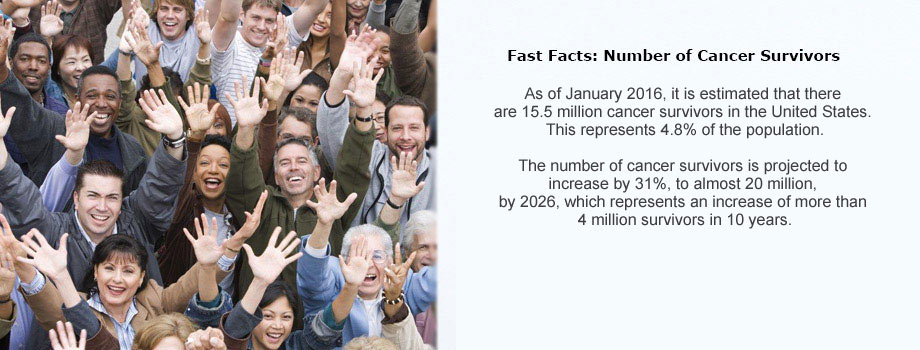
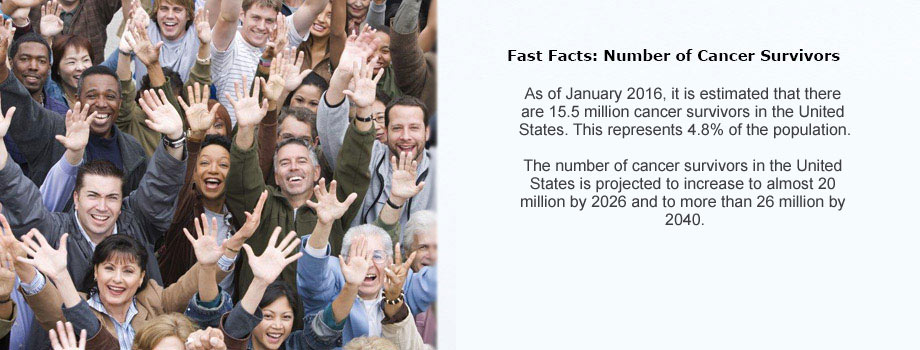
Merged revision(s) 631-632 from branches/ICF
Former-commit-id: f38e8b20cf81256a3431ceb1e9fd5c8d97cf1430

Changed region(s): [[0.5478, 0.4571, 0.9435, 0.6571], [0.5174, 0.2857, 0.9435, 0.4]]

diff --git a/ocs/statistics/statistics.html b/ocs/statistics/statistics.html
@@ -175,13 +175,14 @@ Opportunities at NCI</a></li>
     </div>
     </div>-->
 		</li>
-      <li>The number of cancer survivors is projected to increase by 31%, to almost 20 million, by 2026, which represents an increase of more than 4 million survivors in 10 years.<sup>1, 2</sup> <!--<a href="#graphA" data-toggle="lightbox">View graph A</a>
+      <li>The number of cancer survivors is projected to increase by 31%, to almost 20 million, by 2026, which represents an increase of more than 4 million survivors in 10 years.<sup>1, 2</sup> </li>
+      <li>The number of cancer survivors is projected to grow to 26.1 million by 2040, an increase of almost 11 million from 2016.<sup>3</sup></li>
+      <!--<a href="#graphA" data-toggle="lightbox">View graph A</a>
                      			<div id="modal" class="lightbox hide fade" tabindex="-1" role="dialog" aria-hidden="true">
                       				<div class="modal-body">
                       					<img src="../Images/graphs/graphic-2014-prevalence.png" alt="Estimated number of cancer survivors in the US" />
                        				</div>
                         		</div>-->
-		</li>
     </ul>
     <p><strong>Number or Percentage of Cancer Survivors, by Time Since Diagnosis    </strong></p>
     <ul>
@@ -207,7 +208,8 @@ Opportunities at NCI</a></li>
     </ul>
 <p><strong>More Details about Cancer Survivors    </strong></p>
     <ul>
-      <li>Sixty-one percent of survivors are currently 65 years of age or older.<sup>1, 2</sup>  <!--<a href="#graphD" data-toggle="lightbox">View graph D</a>
+      <li>Sixty-one percent of survivors are currently 65 years of age or older.</li>
+      <li>It is estimated that by 2040, 73% of cancer survivors in the United States will be 65 years or older.<sup>3</sup>  <!--<a href="#graphD" data-toggle="lightbox">View graph D</a>
       
         <div id="graphD" class="lightbox hide fade" tabindex="-1" role="dialog" aria-hidden="true">
      <div class='lightbox-header'><button type="button" class="close" data-dismiss="lightbox" aria-hidden="true">&times;</button>
@@ -215,15 +217,14 @@ Opportunities at NCI</a></li>
     <div class='lightbox-content'>
     <img src="../Images/graphs/graph-2014-age.png" alt="Estimated number of persons alive in the United States who were diagnosed with cancer, by current age" />
     </div>
-    </div>-->
-      </li>
-      
+    </div>-->  </li>    
       <li>Among today's survivors, the most common cancer sites represented include female breast (23%), prostate (21%), colorectal (9%),  gynecologic (8%) and melanoma (8%).<sup>1, 2</sup></li>
     </ul>
     <p>For additional cancer-related statistics, please visit <a href="http://seer.cancer.gov/">NCI's Surveillance, Epidemiology, and End Results (SEER) Program</a>. </p>
     <p>&nbsp;</p>
     <p><sup>1</sup> American Cancer Society<em>. Cancer Treatment &amp; Survivorship Facts &amp; Figures  2016-2017</em>. Atlanta: American Cancer Society; 2016.</p>
     <p><sup>2</sup> Miller,  K. D., Siegel, R. L., Lin, C. C., Mariotto, A. B., Kramer, J. L., Rowland, J.  H., Stein, K. D., Alteri, R. and Jemal, A. (2016), Cancer treatment and  survivorship statistics, 2016. CA: A Cancer Journal for Clinicians.</p>
+    <p><sup>3</sup> Bluethmann SM,  Mariotto AB, Rowland, JH. Anticipating the ''Silver Tsunami'': Prevalence  Trajectories and Comorbidity Burden among Older Cancer Survivors in the United  States. Cancer Epidemiol Biomarkers Prev. 2016;25:1029-1036. </p>
 </div>
                 <!--/span-->
                           <!-- InstanceEndEditable -->
@@ -281,7 +282,7 @@ Opportunities at NCI</a></p>
           </div>
            </div>
        <div class="last-updated">
-       <p class="center"><strong>Last Updated: <!-- InstanceBeginEditable name="Last Updated" -->July 6, 2016<!-- InstanceEndEditable --></strong></p>
+       <p class="center"><strong>Last Updated: <!-- InstanceBeginEditable name="Last Updated" -->July 7, 2016<!-- InstanceEndEditable --></strong></p>
        <a href="http://www.cancer.gov/contact" class="help-image"><img class="footer-help" src="/images/footer-help-logo.png" alt="help-logo" /></a><p class="can-numb"><strong>1-800-4-CANCER <br /> (1-800-422-6237)</strong></p>
        </div>
        </div><!--/row-->

diff --git a/ocs/index.html b/ocs/index.html
@@ -178,7 +178,7 @@ Opportunities at NCI</a></li>
           </div>
         </div>
         <div class="item">
-          <img class="splash" src="Images/carousel/banner-fastfacts2.jpg" alt="Over the next decade, the number of people who have lived 5 years or more after their cancer diagnosis is projected to increase approximately 35%, to 14 million. In 2016, 68% of survivors have survived 5 years or more after diagnosis; 47% have survived 10 years or more; and 20% have survived 20 years or more.">
+          <img class="splash" src="Images/carousel/banner-fastfacts2.jpg" alt="As of January 2016, it is estimated that there are 15.5 million cancer survivors in the United States. This represents 4.8% of the population. The number of cancer survivors is projected to grow to 26.1 million by 2040, an increase of almost 11 million from 2016.">
           <div class="container">
             <div class="carousel-caption slide2">
                   <a class="btn btn-info slide2a" href="/ocs/statistics/statistics.html">Learn More</a>
@@ -186,7 +186,8 @@ Opportunities at NCI</a></li>
           </div>
         </div>
         <div class="item">
-          <img class="splash" src="Images/carousel/banner-fastfacts1.jpg" alt="As of January 2016, it is estimated that there are 15.5 million cancer survivors in the United States. This represents 4.8% of the population. The number of cancer survivors is projected to increase by 31%, to almost 20 million, by 2026, which represents an increase of more than 4 million survivors in 10 years.">
+          <img class="splash" src="Images/carousel/banner-fastfacts1.jpg" alt="Over the next decade, the number of people who have lived 5 years or more after their cancer diagnosis is projected to increase approximately 35%, to 14 million. In 2016, 68% of survivors have survived 
+5 years or more after diagnosis; 44% have survived 10 years or more; and 20% have survived 20 years or more.">
           <div class="container">
             <div class="carousel-caption slide3">
                   <a class="btn btn-info slide3a" href="/ocs/statistics/statistics.html">Learn More</a>
@@ -194,7 +195,7 @@ Opportunities at NCI</a></li>
           </div>
         </div>
                 <div class="item">
-          <img class="splash" src="Images/carousel/banner-fastfacts3.jpg" alt="Sixty-one percent of survivors are currently 65 years of age or older. Among today's survivors, the most common cancer sites represented include female breast (23%), prostate (21%), colorectal (9%), gynecologic (8%) and melanoma (8%).">
+          <img class="splash" src="Images/carousel/banner-fastfacts3.jpg" alt="Sixty-one percent of survivors are currently 65 years of age or older. It is estimated that by 2040, 73% of cancer survivors in the United States will be 65 years or older. Among today's survivors, the most common cancer sites represented include female breast (23%), prostate (21%), colorectal (9%), gynecologic (8%) and melanoma (8%).">
           <div class="container">
             <div class="carousel-caption slide4">
                   <a class="btn btn-info slide4a" href="/ocs/statistics/statistics.html">Learn More</a>
@@ -320,7 +321,7 @@ Opportunities at NCI</a></p>
           </div>
            </div>
        <div class="last-updated">
-       <p class="center"><strong>Last Updated: July 6, 2016</strong></p>
+       <p class="center"><strong>Last Updated: July 7, 2016</strong></p>
        <a href="http://www.cancer.gov/contact" class="help-image"><img class="footer-help" src="/images/footer-help-logo.png" alt="help-logo" /></a><p class="can-numb"><strong>1-800-4-CANCER <br /> (1-800-422-6237)</strong></p>
        </div>
        </div><!--/row-->

diff --git a/index.html b/index.html
@@ -302,19 +302,20 @@ j=d.createElement(s),dl=l!='dataLayer'?'&l='+l:'';j.async=true;j.src=
                   <div class="area-header bottom-border">Featured Infographic</div>
                   <div class="row-fluid">
                   <div class="span7">
-                  <div id="demoLightbox22" class="lightbox hide fade" tabindex="-1" role="dialog" aria-hidden="true">
+                  <div id="demoLightbox23" class="lightbox hide fade" tabindex="-1" role="dialog" aria-hidden="true">
      <div class='lightbox-header'><button type="button" class="close" data-dismiss="lightbox" aria-hidden="true">&times;</button>
 </div>
     <div class='lightbox-content'>
-    <img src="images/seer-1975-2013.png" alt="CSR Figure 1.19: Person and Average Years of Life Lost by Cancer Site">
-    <div class="lightbox-caption"><p>Source: <a href="http://seer.cancer.gov/csr/1975_2013/">SEER Cancer Statistics Review (CSR) 1975-2013</a></p></div>
+    <img src="images/estimated-cancer-prevalence-by-age-1975-2040.jpg" alt="Estimated Cancer Prevalence by Age in the US Population from 1975 to 2040">
+    <div class="lightbox-caption"><p>Source: Bluethmann SM, Mariotto AB, Rowland, JH. Anticipating the ''Silver Tsunami'': Prevalence Trajectories and Comorbidity Burden among Older Cancer Survivors in the United States. Cancer Epidemiol Biomarkers Prev. 2016;25:1029-1036.</p></div>
     </div>
     </div>
-                      <a data-toggle="lightbox" href="#demoLightbox22"><img src="images/seer-1975-2013.png" alt="CSR Figure 1.19: Person and Average Years of Life Lost by Cancer Site" width="250" height="186"></a>
-                    <p><a href="infographics.html" class="document">View all Previous Infographics</a></p>
+                      <a data-toggle="lightbox" href="#demoLightbox23"><img src="images/estimated-cancer-prevalence-by-age-1975-2040.jpg" alt="Estimated Cancer Prevalence by Age in the US Population from 1975 to 2040" width="200" height="148"></a>
+                    <p><br>
+<a href="infographics.html" class="document">View all Previous Infographics</a></p>
                   </div>
             <div class="span5">
-            <p><a href="http://seer.cancer.gov/csr/1975_2013/">SEER Cancer Statistics Review (CSR) 1975-2013</a></p>
+            <p><a data-toggle="lightbox" href="#demoLightbox23">Estimated Cancer Prevalence by Age in the US Population from 1975 to 2040</a></p>
 </div>
             </div>
             
@@ -452,7 +453,7 @@ j=d.createElement(s),dl=l!='dataLayer'?'&l='+l:'';j.async=true;j.src=
           </div>
            </div>
        <div class="last-updated">
-       <p class="center"><strong>Last Updated: June 7, 2016</strong></p>
+       <p class="center"><strong>Last Updated: July 7, 2016</strong></p>
        <a href="http://www.cancer.gov/contact" class="help-image"><img class="footer-help" src="/images/footer-help-logo.png" alt="help-logo" /></a><p class="can-numb"><strong>1-800-4-CANCER <br /> (1-800-422-6237)</strong></p>
                   </div>
        </div><!--/row-->

diff --git a/infographics.html b/infographics.html
@@ -182,6 +182,24 @@ j=d.createElement(s),dl=l!='dataLayer'?'&l='+l:'';j.async=true;j.src=
                 <div class="span12 listimage">
                   <h1>Featured Infographics</h1>
                   <div class="row-fluid">
+                  
+                  <div class="row-fluid">
+                  <div class="span12">
+                  <div id="demoLightbox23" class="lightbox hide fade" tabindex="-1" role="dialog" aria-hidden="true">
+     <div class='lightbox-header'><button type="button" class="close" data-dismiss="lightbox" aria-hidden="true">&times;</button>
+</div>
+    <div class='lightbox-content'>
+    <img src="images/estimated-cancer-prevalence-by-age-1975-2040.jpg" alt="Estimated Cancer Prevalence by Age in the US Population from 1975 to 2040">
+    <div class="lightbox-caption"><p>Source: Bluethmann SM, Mariotto AB, Rowland, JH. Anticipating the ''Silver Tsunami'': Prevalence Trajectories and Comorbidity Burden among Older Cancer Survivors in the United States. Cancer Epidemiol Biomarkers Prev. 2016;25:1029-1036.</p></div>
+    </div>
+    </div>
+                      <ul>
+                        <li><a data-toggle="lightbox" href="#demoLightbox23">Estimated Cancer Prevalence by Age in the US Population from 1975 to 2040</a><br>
+                          <a data-toggle="lightbox" href="#demoLightbox23"><img src="images/estimated-cancer-prevalence-by-age-1975-2040.jpg" alt="Estimated Cancer Prevalence by Age in the US Population from 1975 to 2040" width="200" height="148"></a></li>
+                      </ul>
+                  </div>
+                  
+                  </div>
                   <div class="row-fluid">
                   <div class="span12">
                   <div id="demoLightbox22" class="lightbox hide fade" tabindex="-1" role="dialog" aria-hidden="true">
@@ -606,7 +624,7 @@ j=d.createElement(s),dl=l!='dataLayer'?'&l='+l:'';j.async=true;j.src=
           </div>
            </div>
        <div class="last-updated">
-       <p class="center"><strong>Last Updated: <!-- InstanceBeginEditable name="Last Updated" -->March 9, 2015<!-- InstanceEndEditable --></strong></p>
+       <p class="center"><strong>Last Updated: <!-- InstanceBeginEditable name="Last Updated" -->July 7, 2016<!-- InstanceEndEditable --></strong></p>
        <a href="http://www.cancer.gov/contact" class="help-image"><img class="footer-help" src="/images/footer-help-logo.png" alt="help-logo" /></a><p class="can-numb"><strong>1-800-4-CANCER <br /> (1-800-422-6237)</strong></p>
        </div>
        </div><!--/row-->
